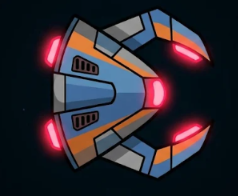
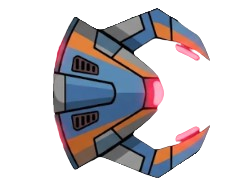
replace images with no background

diff --git a/game.js b/game.js
@@ -1,10 +1,10 @@
 /*
- * Name: [Khushal]
- * Date: [2024-06-10]
- * Title: Galactic Boss Fight
- * Description: Defend Earth by piloting your starfighter and shooting down waves of 
- * descending alien invaders! Use weapon modes (which consume energy) and destroy the 
- * entire alien fleet before they reach your ship or deplete your health.
+- Name: Khushal
+- Date: 2024-06-10
+- Title: Galactic Boss Fight
+- Description: Defend Earth by piloting your starfighter and shooting down waves of 
+- descending alien invaders! Use weapon modes (which consume energy) and destroy the 
+- entire alien fleet before they reach your ship or deplete your health.
  */
 
 // --- CANVAS & HUD SETUP ---
@@ -14,18 +14,35 @@ const playerHpEl = document.getElementById('playerHp');
 const bossHpEl = document.getElementById('bossHp');
 const gameStateEl = document.getElementById('gameState');
 
-// --- LOAD IMAGES ---
-const images = {
-  player: new Image(),
-  alien1: new Image(),
-  alien2: new Image(),
-  boss: new Image()
+// --- LOAD IMAGES SAFELY FOR GITHUB PAGES ---
+const imageSources = {
+  player: 'assets/player.jpg',
+  alien1: 'assets/alien1.png',
+  alien2: 'assets/alien2.png',
+  boss: 'assets/boss.png'
 };
 
-images.player.src = './assets/player.jpg';
-images.alien1.src = './assets/alien1.png';
-images.alien2.src = './assets/alien2.png';
-images.boss.src = './assets/boss.png';
+const images = {};
+let imagesLoaded = 0;
+const totalImages = Object.keys(imageSources).length;
+
+function loadImages(callback) {
+  for (let key in imageSources) {
+    images[key] = new Image();
+    images[key].src = imageSources[key];
+    
+    images[key].onload = () => {
+      imagesLoaded++;
+      if (imagesLoaded === totalImages) {
+        callback();
+      }
+    };
+
+    images[key].onerror = () => {
+      console.error(`Failed to load image: ${imageSources[key]}. Check path and capitalization on GitHub.`);
+    };
+  }
+}
 
 // Player properties
 const player = {
@@ -49,15 +66,18 @@ const alienHeight = 40;
 // Boss properties
 const boss = {
   x: canvas.width / 2 - 50,
-  y: 50,
+  y: 20,
   width: 100,
   height: 100,
   hp: 300,
-  speed: 2
+  speed: 2,
+  direction: 1,
+  shootTimer: 0
 };
 
 // Bullet properties
 const bullets = [];
+const enemyBullets = [];
 const bulletSpeed = 7;
 
 // Game state
@@ -66,8 +86,13 @@ let gameState = 'playing'; // 'playing', 'won', 'lost'
 // --- KEYBOARD INPUT ---
 const keys = {};
 document.addEventListener('keydown', (e) => {
+  // Prevent spacebar and arrow keys from scrolling the webpage on GitHub Pages
+  if ([' ', 'ArrowUp', 'ArrowDown', 'ArrowLeft', 'ArrowRight'].includes(e.key)) {
+    e.preventDefault();
+  }
   keys[e.key] = true;
 });
+
 document.addEventListener('keyup', (e) => {
   keys[e.key] = false;
 });
@@ -89,6 +114,7 @@ function update() {
   updatePlayer();
   updateBullets();
   updateAliens();
+  updateBoss();
   checkCollisions();
   checkWinCondition();
   updateHUD();
@@ -119,12 +145,45 @@ function updatePlayer() {
   }
 }
 
+// --- UPDATE BOSS ---
+function updateBoss() {
+  if (boss.hp <= 0) return;
+
+  // Move side to side
+  boss.x += boss.speed * boss.direction;
+  if (boss.x <= 0 || boss.x + boss.width >= canvas.width) {
+    boss.direction *= -1;
+  }
+
+  // Boss fires back periodically
+  boss.shootTimer++;
+  if (boss.shootTimer >= 90) {
+    enemyBullets.push({
+      x: boss.x + boss.width / 2 - 4,
+      y: boss.y + boss.height,
+      width: 8,
+      height: 15,
+      speed: 4
+    });
+    boss.shootTimer = 0;
+  }
+}
+
 // --- UPDATE BULLETS ---
 function updateBullets() {
+  // Player bullets
   for (let i = bullets.length - 1; i >= 0; i--) {
     bullets[i].y -= bulletSpeed;
     if (bullets[i].y < 0) {
       bullets.splice(i, 1);
+    }
+  }
+
+  // Boss bullets
+  for (let i = enemyBullets.length - 1; i >= 0; i--) {
+    enemyBullets[i].y += enemyBullets[i].speed;
+    if (enemyBullets[i].y > canvas.height) {
+      enemyBullets.splice(i, 1);
     }
   }
 }
@@ -146,9 +205,15 @@ function draw() {
     ctx.drawImage(images.boss, boss.x, boss.y, boss.width, boss.height);
   }
 
-  // Draw bullets
+  // Draw player bullets
   bullets.forEach((bullet) => {
     ctx.fillStyle = 'yellow';
+    ctx.fillRect(bullet.x, bullet.y, bullet.width, bullet.height);
+  });
+
+  // Draw boss bullets
+  enemyBullets.forEach((bullet) => {
+    ctx.fillStyle = 'red';
     ctx.fillRect(bullet.x, bullet.y, bullet.width, bullet.height);
   });
 }
@@ -175,19 +240,14 @@ function updateAliens() {
 
 // --- CHECK COLLISIONS ---
 function checkCollisions() {
+  // Player bullets vs Aliens & Boss
   for (let bIndex = bullets.length - 1; bIndex >= 0; bIndex--) {
     const bullet = bullets[bIndex];
     let bulletHit = false;
 
-    // Check collision with aliens
     for (let aIndex = aliens.length - 1; aIndex >= 0; aIndex--) {
       const alien = aliens[aIndex];
-      if (
-        bullet.x < alien.x + alien.width &&
-        bullet.x + bullet.width > alien.x &&
-        bullet.y < alien.y + alien.height &&
-        bullet.y + bullet.height > alien.y
-      ) {
+      if (isColliding(bullet, alien)) {
         aliens.splice(aIndex, 1);
         bullets.splice(bIndex, 1);
         bulletHit = true;
@@ -195,19 +255,45 @@ function checkCollisions() {
       }
     }
 
-    // Check collision with boss (only if bullet didn't already hit an alien)
-    if (!bulletHit && boss.hp > 0) {
-      if (
-        bullet.x < boss.x + boss.width &&
-        bullet.x + bullet.width > boss.x &&
-        bullet.y < boss.y + boss.height &&
-        bullet.y + bullet.height > boss.y
-      ) {
-        boss.hp -= 10;
-        bullets.splice(bIndex, 1);
+    if (!bulletHit && boss.hp > 0 && isColliding(bullet, boss)) {
+      boss.hp -= 10;
+      bullets.splice(bIndex, 1);
+    }
+  }
+
+  // Boss bullets vs Player
+  for (let i = enemyBullets.length - 1; i >= 0; i--) {
+    if (isColliding(enemyBullets[i], player)) {
+      player.hp -= 20;
+      enemyBullets.splice(i, 1);
+      if (player.hp <= 0) {
+        player.hp = 0;
+        gameState = 'lost';
       }
     }
   }
+
+  // Aliens crashing into Player
+  for (let i = aliens.length - 1; i >= 0; i--) {
+    if (isColliding(aliens[i], player)) {
+      player.hp -= 25;
+      aliens.splice(i, 1);
+      if (player.hp <= 0) {
+        player.hp = 0;
+        gameState = 'lost';
+      }
+    }
+  }
+}
+
+// Helper for bounding-box collision
+function isColliding(rect1, rect2) {
+  return (
+    rect1.x < rect2.x + rect2.width &&
+    rect1.x + rect1.width > rect2.x &&
+    rect1.y < rect2.y + rect2.height &&
+    rect1.y + rect1.height > rect2.y
+  );
 }
 
 // --- CHECK WIN CONDITION ---
@@ -219,9 +305,9 @@ function checkWinCondition() {
 
 // --- UPDATE HUD ---
 function updateHUD() {
-  playerHpEl.textContent = `Player HP: ${player.hp}`;
-  bossHpEl.textContent = `Boss HP: ${Math.max(0, boss.hp)}`;
-  gameStateEl.textContent = `Game State: ${gameState}`;
+  if (playerHpEl) playerHpEl.textContent = `Player HP: ${player.hp}`;
+  if (bossHpEl) bossHpEl.textContent = `Boss HP: ${Math.max(0, boss.hp)}`;
+  if (gameStateEl) gameStateEl.textContent = `Game State: ${gameState}`;
 }
 
 // --- DRAW GAME OVER ---
@@ -245,7 +331,7 @@ function initializeAliens() {
     for (let col = 0; col < alienCols; col++) {
       aliens.push({
         x: col * (alienWidth + 10) + 50,
-        y: row * (alienHeight + 10) + 50,
+        y: row * (alienHeight + 10) + 130, // Moved down below the boss
         width: alienWidth,
         height: alienHeight,
         speed: 0.3,
@@ -255,6 +341,8 @@ function initializeAliens() {
   }
 }
 
-// --- START GAME ---
-initializeAliens();
-gameLoop();
+// --- START GAME AFTER IMAGES LOAD ---
+loadImages(() => {
+  initializeAliens();
+  gameLoop();
+});
